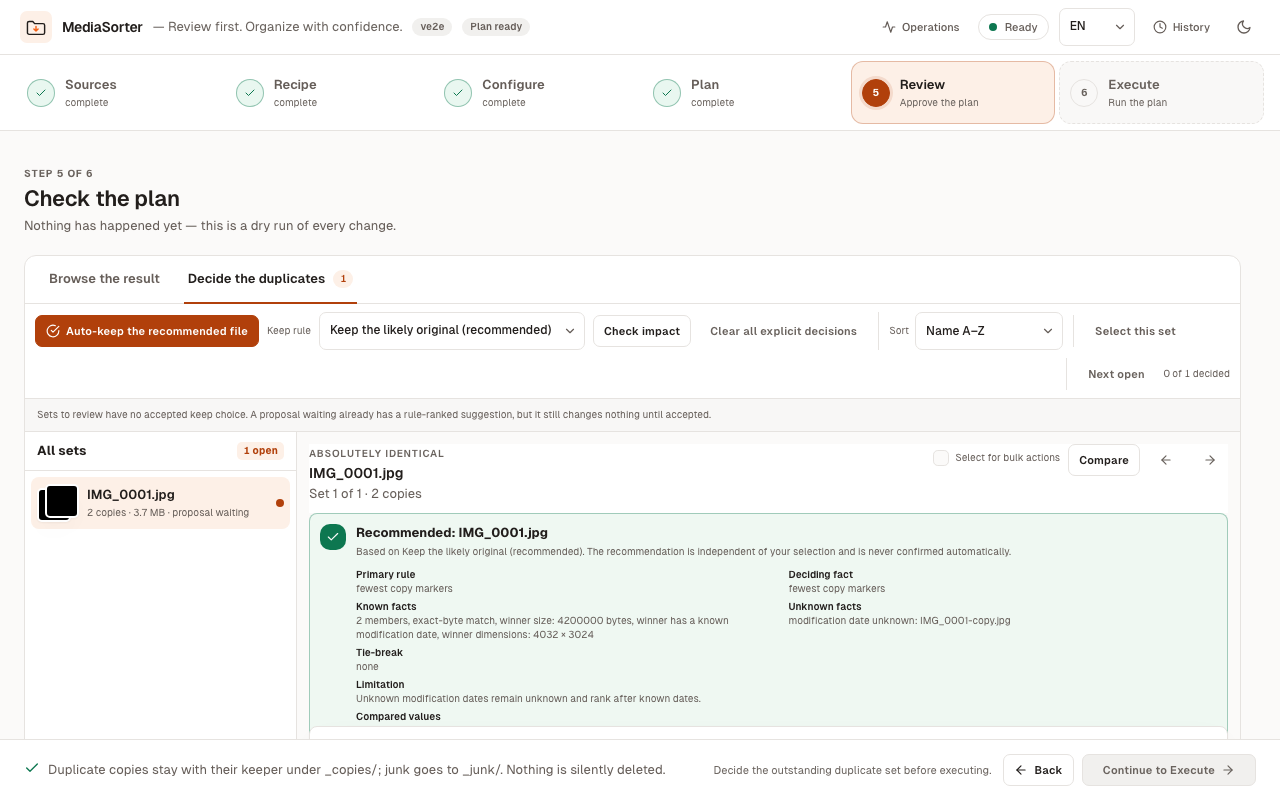
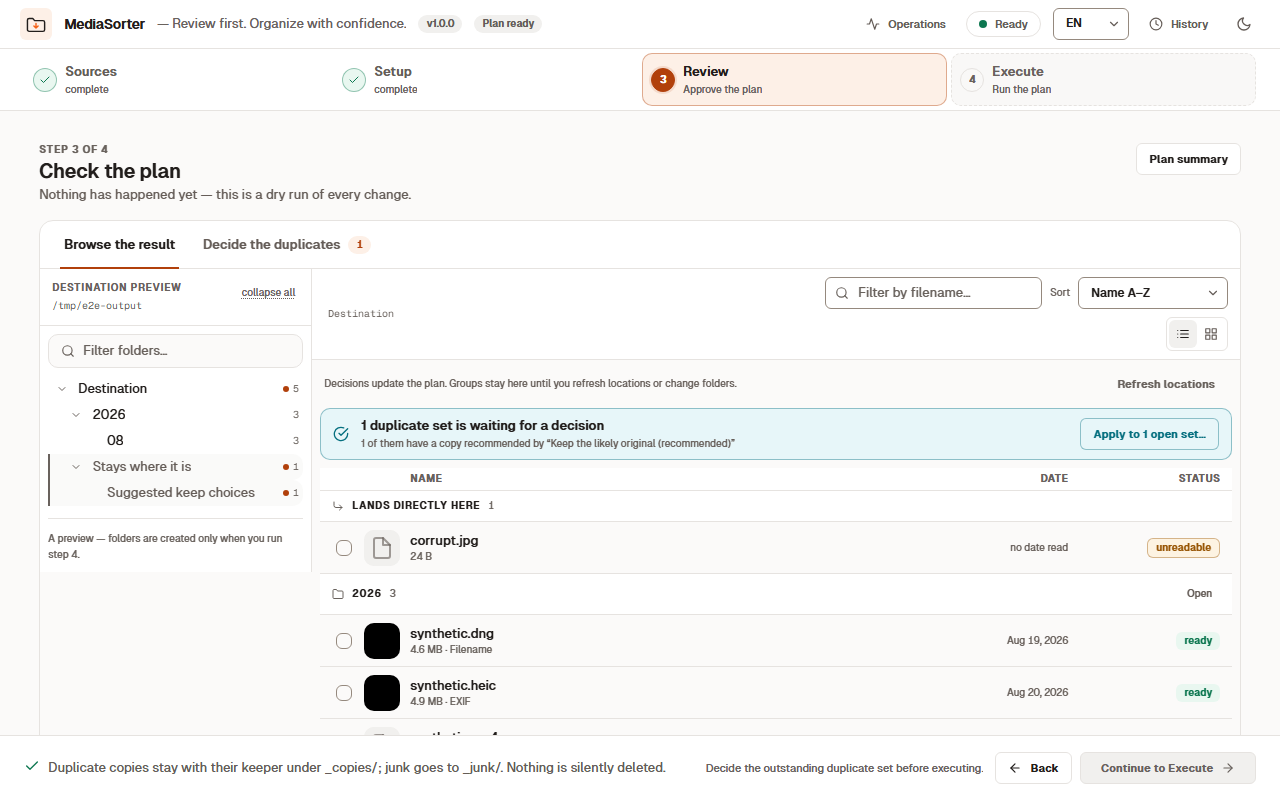
docs: refresh agent guidance and usage (#105)

diff --git a/frontend/e2e/support.ts b/frontend/e2e/support.ts
@@ -660,7 +660,13 @@ export async function stubBackend(
       }
       return body(await getConfig());
     }
-    if (url.includes("/api/health")) return body({ status: "ok", version: "e2e" });
+    if (url.includes("/api/health")) {
+      const version =
+        process.env.UPDATE_MEDIA_SORTER_SCREENSHOT === "1"
+          ? (require("../package.json") as { version: string }).version
+          : "e2e";
+      return body({ status: "ok", version });
+    }
     if (url.includes("/api/hardware"))
       return body({
         logical_cpus: 8,

diff --git a/README.md b/README.md
@@ -13,6 +13,8 @@
 
 ![MediaSorter desktop application](docs/assets/screenshot.png)
 
+*Current source UI with disposable demonstration media. See [capture details](docs/assets/README.md).*
+
 </div>
 
 ## Overview
@@ -53,7 +55,7 @@ publishes checksums, but those checksums do not prove publisher identity.
 ## Quick start
 
 Open MediaSorter, add at least one input and one destination on **Sources**,
-choose a recipe, preview the current settings, resolve any duplicate decisions,
+choose a recipe in **Setup**, calculate the plan, resolve any duplicate decisions,
 and execute only after reviewing the frozen impact summary.
 
 ## Usage
@@ -64,14 +66,12 @@ The application makes every mutation wait behind one reviewed plan:
 
 1. **Sources** — assign input, reference, and destination folders. A whole root
    can be skipped for one run without changing the saved profile.
-2. **Recipe** — choose a safe starting policy.
-3. **Configure** — adjust movement, structure, cleanup, metadata, and AI
-   settings. Changed values and their effects are visible.
-4. **Plan** — calculate the complete read-only impact and verify the destination,
-   available sources, write boundary, and required space.
-5. **Review** — browse planned destinations and resolve every duplicate or
-   similar-media set. Preview and scanning remain read-only.
-6. **Execute** — confirm the frozen impact summary, follow progress, and inspect
+2. **Setup** — choose a recipe, then adjust movement, structure, cleanup, metadata
+   and optional AI settings. Calculate the read-only plan from these settings.
+3. **Review** — inspect the impact summary and planned destinations, verify the
+   destination and space, and resolve every duplicate or similar-media set.
+   Preview and scanning remain read-only.
+4. **Execute** — confirm the frozen impact summary, follow progress, and inspect
    the final report.
 
 Returning to folders or settings invalidates the dependent plan instead of
@@ -120,7 +120,7 @@ The [settings reference](docs/settings-reference.md) documents every option,
 default, compatibility gate, model tier, environment override, and routing
 rule. The in-app descriptions and previews are the primary configuration UI.
 
-Use the in-app **Configure** screen for saved settings and immediate folder and
+Use the in-app **Setup** screen for saved settings and immediate folder and
 filename previews. For headless deployments, the settings reference lists the
 equivalent environment and API controls, including validation and safe
 defaults.

diff --git a/AGENTS.md b/AGENTS.md
@@ -12,11 +12,10 @@ Test mutations with disposable media and real temporary databases.
 
 ## Read only what the task needs
 
-Follow the matching route below; do not load the entire documentation set.
-If `../_local/AGENT-ROUTER.md` exists and the task involves owner-specific,
-security, or cross-repository decisions, follow its relevant route. It is
-optional private context: a standalone clone must work without it. Do not ask
-for private notes to perform ordinary work. Never import them from CLAUDE.md.
+Read only the matching route. Cross-repo choices may use
+`../agent-context/context/ROUTER.md`; owner/security operations may use
+`../_local/AGENT-ROUTER.md` when present. Both are optional: standalone
+work needs neither. Never import private context.
 
 | Working on | First read |
 |---|---|
@@ -30,15 +29,10 @@ for private notes to perform ordinary work. Never import them from CLAUDE.md.
 
 ## Before finishing
 
-- Update the affected user/developer instructions in the same change as behavior.
-- For a lasting decision, update [docs/decisions.md](docs/decisions.md): date,
-  choice, reason, and a link to the owning contract. Replace superseded choices;
-  do not add session transcripts or repeat facts already owned elsewhere.
-- Update this routing table when a new maintained topic needs an entry point.
-- Keep credentials, personal data, security setup and private operational notes
-  out of public commits. If the optional private workspace exists, put those
-  decisions there; otherwise report the missing context only when it blocks work.
-- Run the checks appropriate to the change; report actual output and skips.
-  Documentation-only changes need link/routing checks, not a new product release.
-- Use the owner's configured Git identity; no AI authors/co-author trailers.
-  Keep the README's AI-first disclosure. Publishing requires task authorization.
+- Update affected docs/routes with behavior. For changed lasting decisions, update
+  [docs/decisions.md](docs/decisions.md) with date, reason and owning contract;
+  replace superseded guidance. Keep one TODO per concern, not session logs.
+- Run relevant checks and show output/skips. Doc-only edits need routing/link
+  checks, not a product release. Keep credentials/personal operations out of commits.
+- Preserve concurrent work. Use the configured owner identity, no AI co-authors.
+  Keep the README AI-first disclosure. Remote writes/publication need authorization.

diff --git a/docs/assets/README.md b/docs/assets/README.md
@@ -1,5 +1,18 @@
 # Assets
 
-`screenshot.png` is the current product capture referenced by the top-level
-README. Refresh it from a working app state whenever the primary workflow
-changes materially; do not replace it with a mock or logo.
+`screenshot.png` shows the real React frontend at 1280×800, with deterministic
+E2E media/API fixtures and the current source version. It is a demonstration of
+the source UI, not a capture of personal files or proof of a packaged release.
+Refresh it when the main workflow changes; never fabricate an interface image.
+
+With Node 24 and the locked frontend dependencies installed, run from `frontend/`:
+
+```powershell
+$env:UPDATE_MEDIA_SORTER_SCREENSHOT = '1'
+npx playwright test e2e/a11y.spec.ts --project chromium --grep 'media fixture reaches every screen' --workers 1
+Remove-Item Env:UPDATE_MEDIA_SORTER_SCREENSHOT
+```
+
+On macOS/Linux prefix the same command with `UPDATE_MEDIA_SORTER_SCREENSHOT=1`.
+Install Chromium once with `npx playwright install chromium` if needed. Review
+the saved image for loading states, overflow and private data before committing.

diff --git a/docs/decisions.md b/docs/decisions.md
@@ -8,6 +8,7 @@ decision record. Missing private notes do not block ordinary work.
 
 | Date | Choice | Reason | Owning documentation |
 |---|---|---|---|
+| 2026-10-03 | Portable agent routes and task-time documentation maintenance | Standalone development stays self-contained; docs/routes change with behavior. | [agent guide](../AGENTS.md) |
 | 2026-10-03 | Reviewed runner images and short-lived CI artifacts | Avoid image retirement/migration surprises while keeping required check names and durable releases. | [development](development.md#quality-gates) |
 | 2026-10-03 | Authenticated loopback container health checks | Health uses the same API boundary; Compose requires a launch capability and binds loopback. | [headless](headless.md) |
 | 2026-10-03 | Native cross-platform development entry points | Windows batch files cannot be spawned directly; use npm's JS CLI and the platform's venv interpreter. | [development](development.md#setup) |
